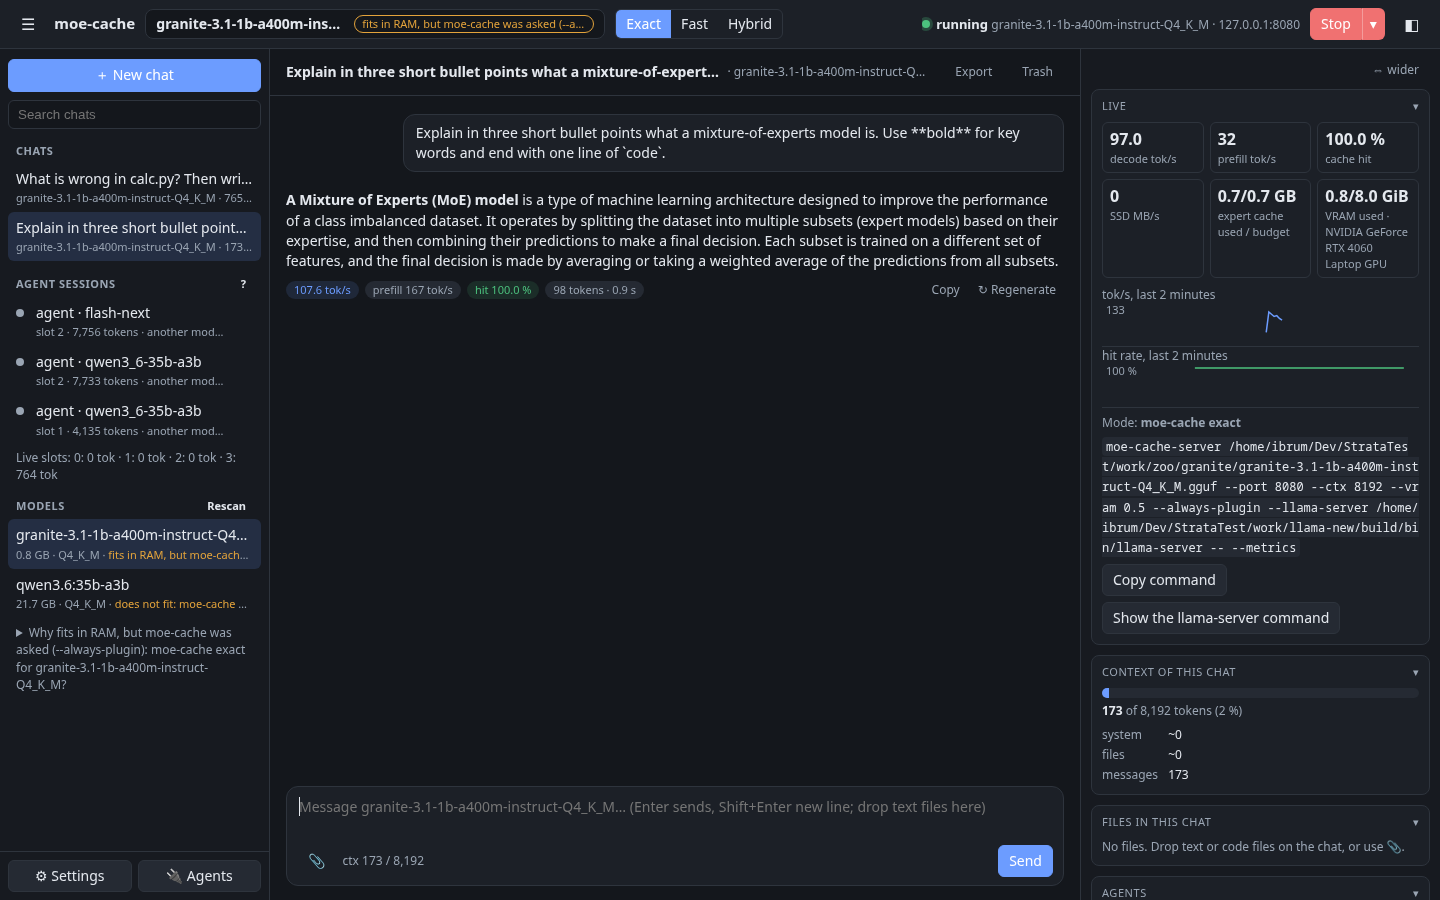
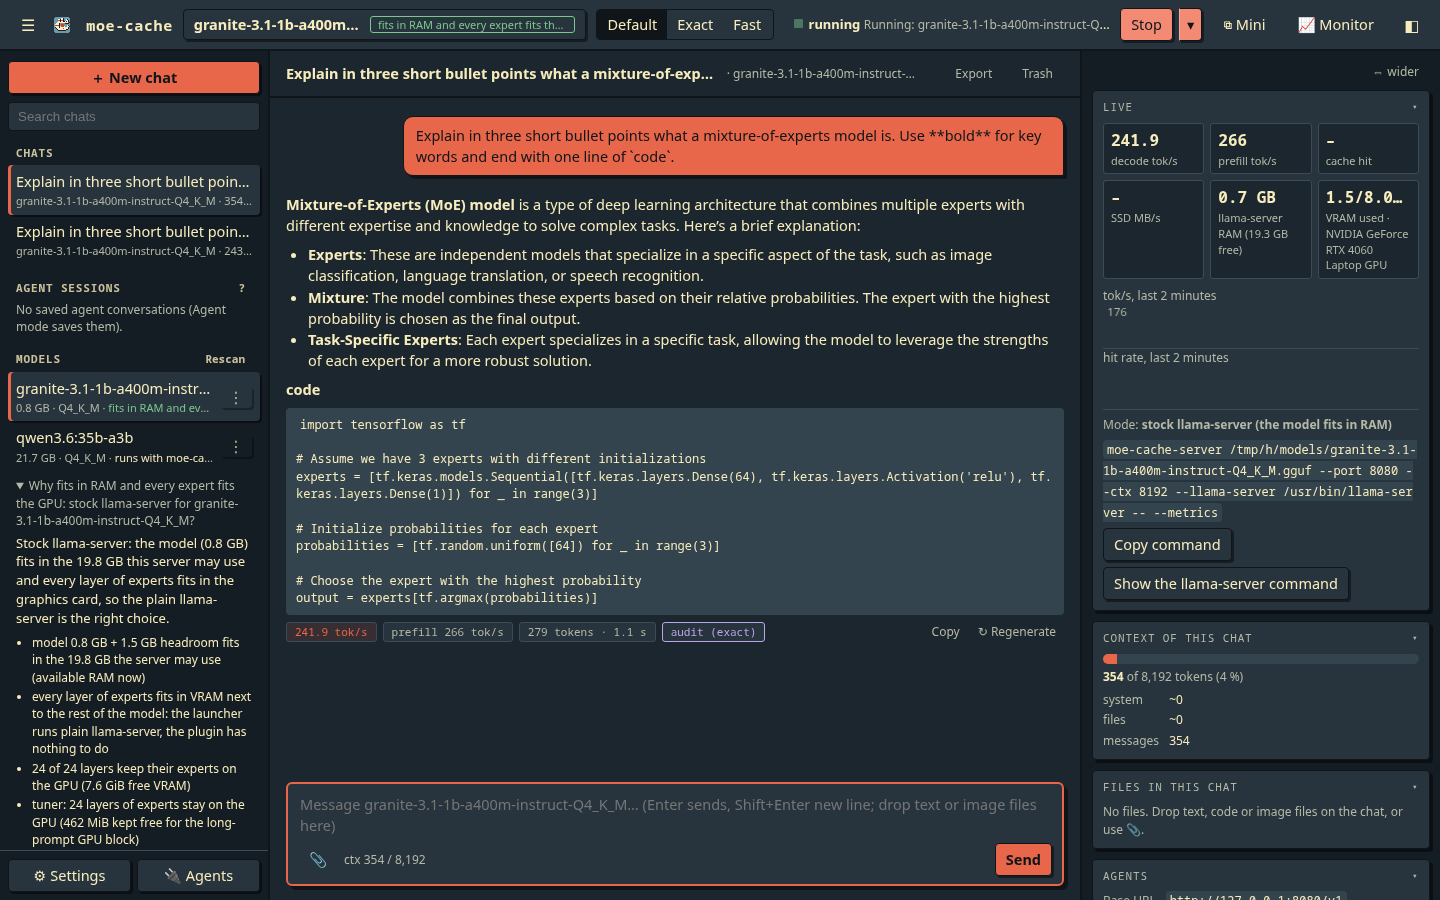
DOCS-061: GUI.md pictures retaken on the three-pane page (page at a glance, model list, settings, live numbers, agents card); captions match the new pictures

diff --git a/docs/GUI.md b/docs/GUI.md
@@ -40,9 +40,9 @@ It prints what it found. The same is shown in the page's header when you hold th
 
 ![The control page: chats and models on the left, the chat in the middle, live numbers on the right](img/gui-3pane-desktop.png)
 
-*(Granite 1B on the test laptop, Linux, RTX 4060 8 GB, 2026-10-27; VRAM 0.5 GiB and Run as moe-cache so the plugin has work to do.)*
+*(Granite 1B on the test laptop, Linux, RTX 4060 8 GB. The model fits in RAM and on the card, so Auto runs plain llama-server, as the top bar says.)*
 
-*Note (2026-11-03): all screenshots in this guide were taken on 2026-10-27. The page has changed since (for example the "Other programs" list of 2026-11-01 and the Share my numbers Cancel fix); the text of this guide is current, the pictures do not show the newer panels.*
+*The pictures of the page at a glance, the model list, the settings, the live numbers and the Agents card were retaken for v0.3.8 on the test laptop; the phone-width picture is older, and the page has small differences from it.*
 
 The page is laid out like a chat app, in three panes:
 
@@ -60,9 +60,7 @@ stays and both side panes slide in:
 
 Add `#agents`, `#log`, `#status` or `#bench` to the page's address to open that card directly, or `#chat=ID` for a saved chat (handy as bookmarks).
 
-The pictures in sections 3-9 were taken before the three-pane layout: the parts look the same, they only moved. Model list → left pane; Settings
-panel → the Settings drawer; Status panel → the Live, Benchmark, Warnings and decision cards on the right; Agents tab → the Agents card and the left
-pane's Agent sessions; Log tab → the Log card.
+In the sections below, "panel" means: model list → left pane; Settings panel → the Settings drawer; Status panel → the Live, Benchmark, Warnings and decision cards on the right; Agents tab → the Agents card and the left pane's Agent sessions; Log tab → the Log card.
 
 ## 3. Models and the plan
 
@@ -95,7 +93,7 @@ The verdict uses the same rules and planner as the launcher, so it matches what 
 
 ## 4. Settings
 
-<img src="img/gui-settings.png" alt="Settings panel" width="520">
+<img src="img/gui-settings.png" alt="Settings drawer: memory, context, mode, run as, MTP, agents, long-prompt mode, port" width="440">
 
 | Setting | What it does | Default |
 |---|---|---|
@@ -123,10 +121,9 @@ Ollama's downloaded models are found and listed as local (agents see them under 
 
 ## 5. Start, stop and the live numbers
 
-<img src="img/gui-status.png" alt="Status panel: live numbers, the command, benchmark runs and the stock vs moe-cache table" width="600">
+<img src="img/gui-status.png" alt="The Live, Context, Files and Agents cards: live numbers, the command that was started" width="600">
 
-*(Granite fits in RAM, so stock llama-server is faster here, 0.80× and 0.46× in red: as the launcher's Auto choice says. The gain is for models
-bigger than RAM.)*
+*(Granite fits in RAM, so the launcher's Auto choice runs plain llama-server and there is no cache hit rate. The gain of moe-cache is for models bigger than RAM; the stock-against-moe-cache table is in the Benchmark card.)*
 
 **Start** starts the selected model with your settings, through the launcher (`moe_cache.py server`). **Stop** stops it. The model loads in a
 few seconds to a few minutes; the state shows *starting…* until it is ready.
